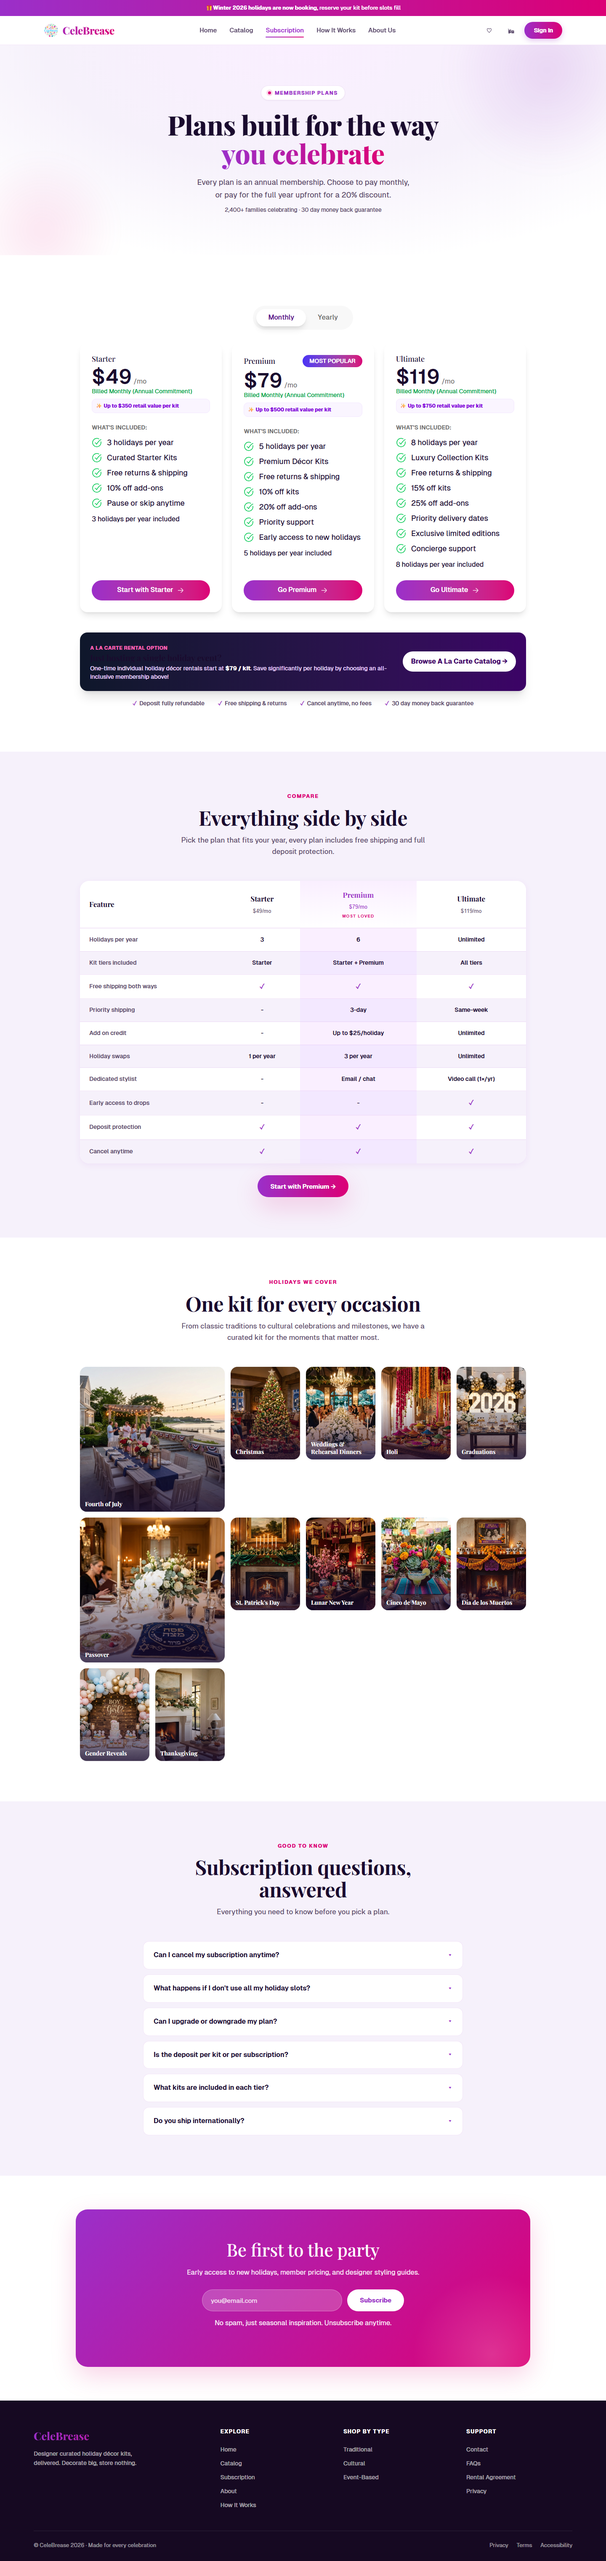
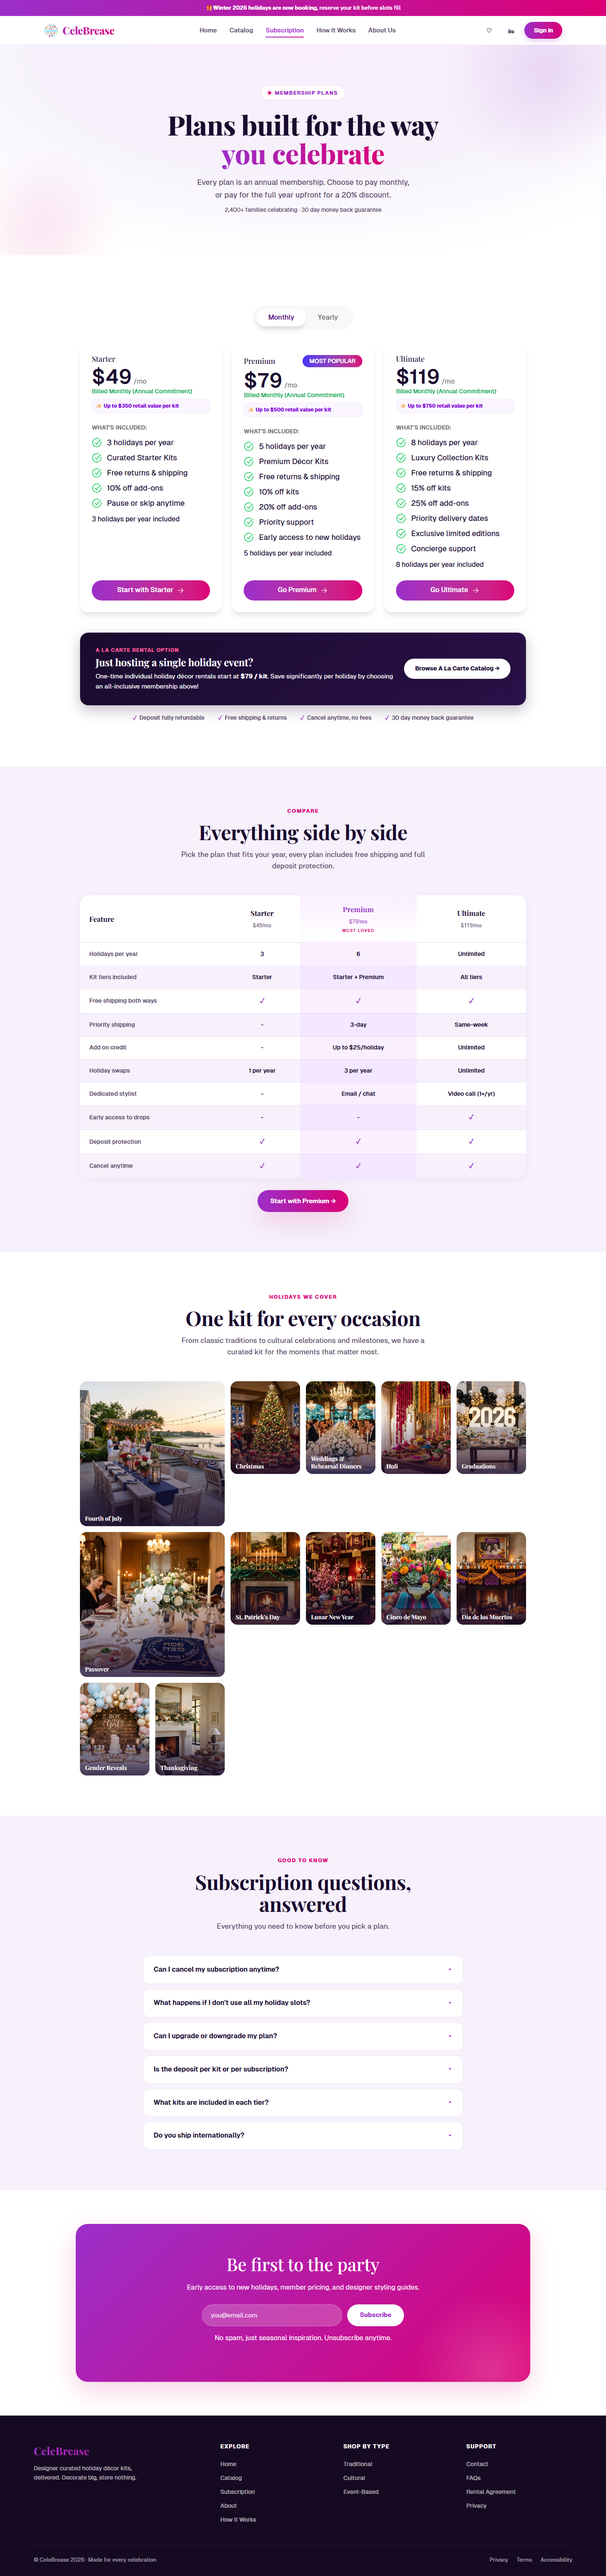
feat(photos): deploy AI photo Angle 1 for Gender Reveals and update database

diff --git a/backend/deploy_gender_reveals_angle1.js b/backend/deploy_gender_reveals_angle1.js
@@ -1,0 +1,39 @@
+const fs = require('fs');
+const path = require('path');
+const { neon } = require('@neondatabase/serverless');
+
+const sql = neon('postgresql://neondb_owner:npg_CXvGP5goSRV8@ep-tiny-tooth-aqpsu11q-pooler.c-8.us-east-1.aws.neon.tech/neondb?sslmode=require');
+
+(async () => {
+    console.log('🚀 DEPLOYING GENDER REVEALS ANGLE 1 AI PHOTO ASSET...\n');
+
+    const sourceFile = 'C:\\Users\\farbo\\.gemini\\antigravity-cli\\brain\\d8b9f463-caf4-41f7-9db1-e44414633abc\\gender_reveals_angle1_1785782015287.jpg';
+    
+    const frontendDest = 'C:\\Users\\farbo\\Documents\\celebrease\\frontend\\public\\uploads\\holidays\\gender-reveals-starter-angle1.jpg';
+    const backendDest = 'C:\\Users\\farbo\\Documents\\celebrease\\backend\\uploads\\holidays\\gender-reveals-starter-angle1.jpg';
+
+    if (fs.existsSync(sourceFile)) {
+        fs.copyFileSync(sourceFile, frontendDest);
+        fs.copyFileSync(sourceFile, backendDest);
+        console.log(`✅ Copied ${sourceFile} to public/uploads/holidays/gender-reveals-starter-angle1.jpg`);
+    } else {
+        console.error('Source file not found!');
+        return;
+    }
+
+    // Update database
+    const relPath = '/uploads/holidays/gender-reveals-starter-angle1.jpg';
+    const kitImages = [
+        '/uploads/holidays/gender-reveals-starter-angle1.jpg',
+        '/uploads/holidays/gender-reveals.jpg',
+        '/uploads/holidays/gender-reveals-premium-angle1.jpg',
+        '/uploads/holidays/gender-reveals-ultimate-angle1.jpg'
+    ];
+
+    await sql`UPDATE "holiday" SET image = ${relPath} WHERE name ILIKE '%Gender%';`;
+    console.log('✅ Updated "holiday" table for Gender Reveals');
+
+    await sql`UPDATE "kit" SET images = ${kitImages} WHERE "holidayId" IN (SELECT id FROM "holiday" WHERE name ILIKE '%Gender%');`;
+    console.log('✅ Updated "kit" table images array for Gender Reveals');
+
+})();

diff --git a/frontend/deploy_gender_reveals_angle1.js b/frontend/deploy_gender_reveals_angle1.js
@@ -1,0 +1,39 @@
+const fs = require('fs');
+const path = require('path');
+const { neon } = require('@neondatabase/serverless');
+
+const sql = neon('postgresql://neondb_owner:npg_CXvGP5goSRV8@ep-tiny-tooth-aqpsu11q-pooler.c-8.us-east-1.aws.neon.tech/neondb?sslmode=require');
+
+(async () => {
+    console.log('🚀 DEPLOYING GENDER REVEALS ANGLE 1 AI PHOTO ASSET...\n');
+
+    const sourceFile = 'C:\\Users\\farbo\\.gemini\\antigravity-cli\\brain\\d8b9f463-caf4-41f7-9db1-e44414633abc\\gender_reveals_angle1_1785782015287.jpg';
+    
+    const frontendDest = 'C:\\Users\\farbo\\Documents\\celebrease\\frontend\\public\\uploads\\holidays\\gender-reveals-starter-angle1.jpg';
+    const backendDest = 'C:\\Users\\farbo\\Documents\\celebrease\\backend\\uploads\\holidays\\gender-reveals-starter-angle1.jpg';
+
+    if (fs.existsSync(sourceFile)) {
+        fs.copyFileSync(sourceFile, frontendDest);
+        fs.copyFileSync(sourceFile, backendDest);
+        console.log(`✅ Copied ${sourceFile} to public/uploads/holidays/gender-reveals-starter-angle1.jpg`);
+    } else {
+        console.error('Source file not found!');
+        return;
+    }
+
+    // Update database
+    const relPath = '/uploads/holidays/gender-reveals-starter-angle1.jpg';
+    const kitImages = [
+        '/uploads/holidays/gender-reveals-starter-angle1.jpg',
+        '/uploads/holidays/gender-reveals.jpg',
+        '/uploads/holidays/gender-reveals-premium-angle1.jpg',
+        '/uploads/holidays/gender-reveals-ultimate-angle1.jpg'
+    ];
+
+    await sql`UPDATE "holiday" SET image = ${relPath} WHERE name ILIKE '%Gender%';`;
+    console.log('✅ Updated "holiday" table for Gender Reveals');
+
+    await sql`UPDATE "kit" SET images = ${kitImages} WHERE "holidayId" IN (SELECT id FROM "holiday" WHERE name ILIKE '%Gender%');`;
+    console.log('✅ Updated "kit" table images array for Gender Reveals');
+
+})();

diff --git a/frontend/verify_alacarte_banner.js b/frontend/verify_alacarte_banner.js
@@ -5,7 +5,8 @@ const { chromium } = require('playwright');
   const browser = await chromium.launch({ headless: true });
   const page = await browser.newPage({ viewport: { width: 1440, height: 900 } });
   
-  await page.goto('https://celebrease.com/subscription', { waitUntil: 'networkidle' });
+  await page.goto('https://celebrease.com/subscription', { waitUntil: 'domcontentloaded' });
+  await page.waitForSelector('.cb-alacarte-banner', { timeout: 15000 }).catch(() => {});
   await page.waitForTimeout(2000);
   
   await page.screenshot({ path: 'screenshots_live_verification/subscription_alacarte.png', fullPage: true });
